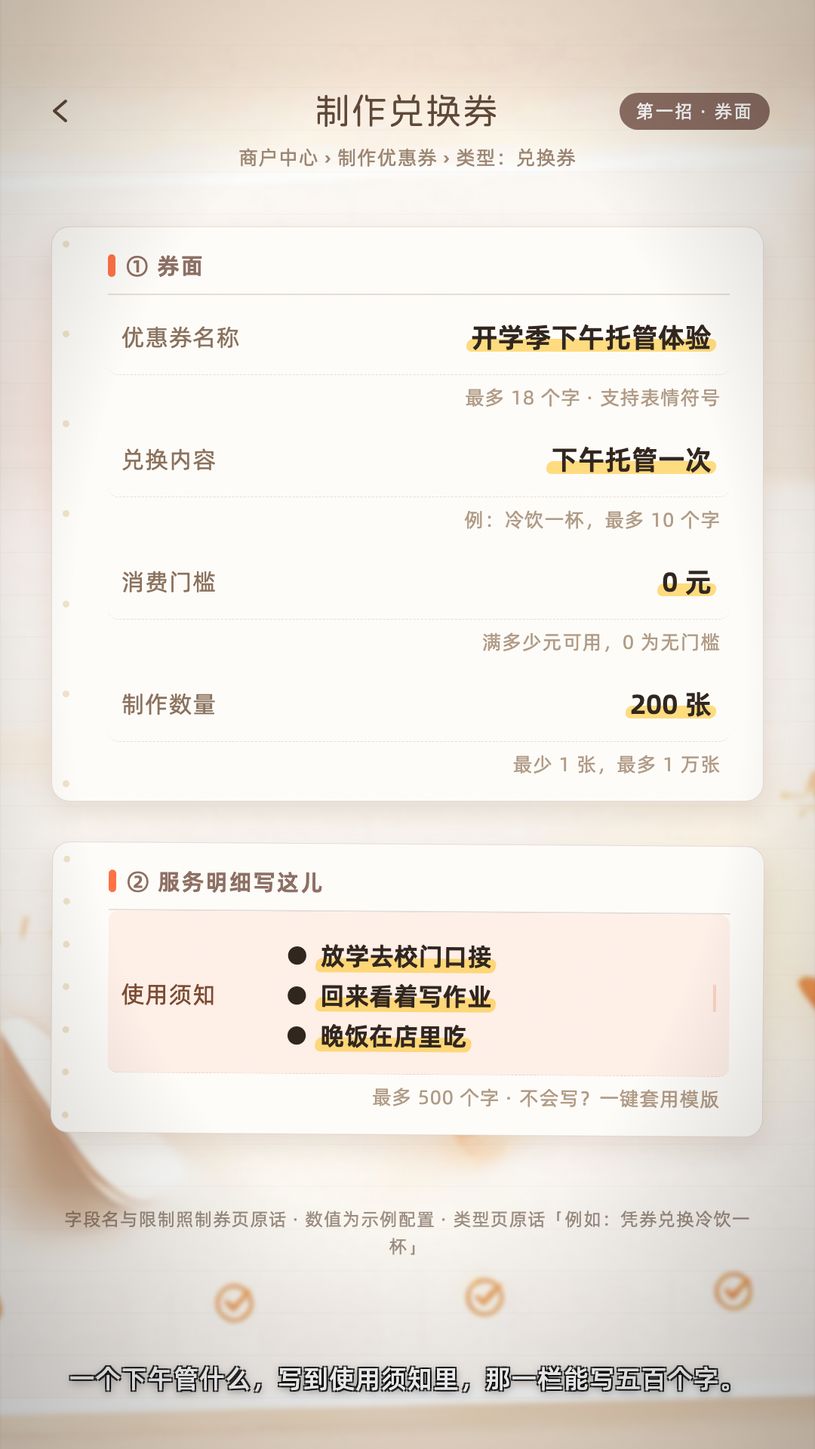
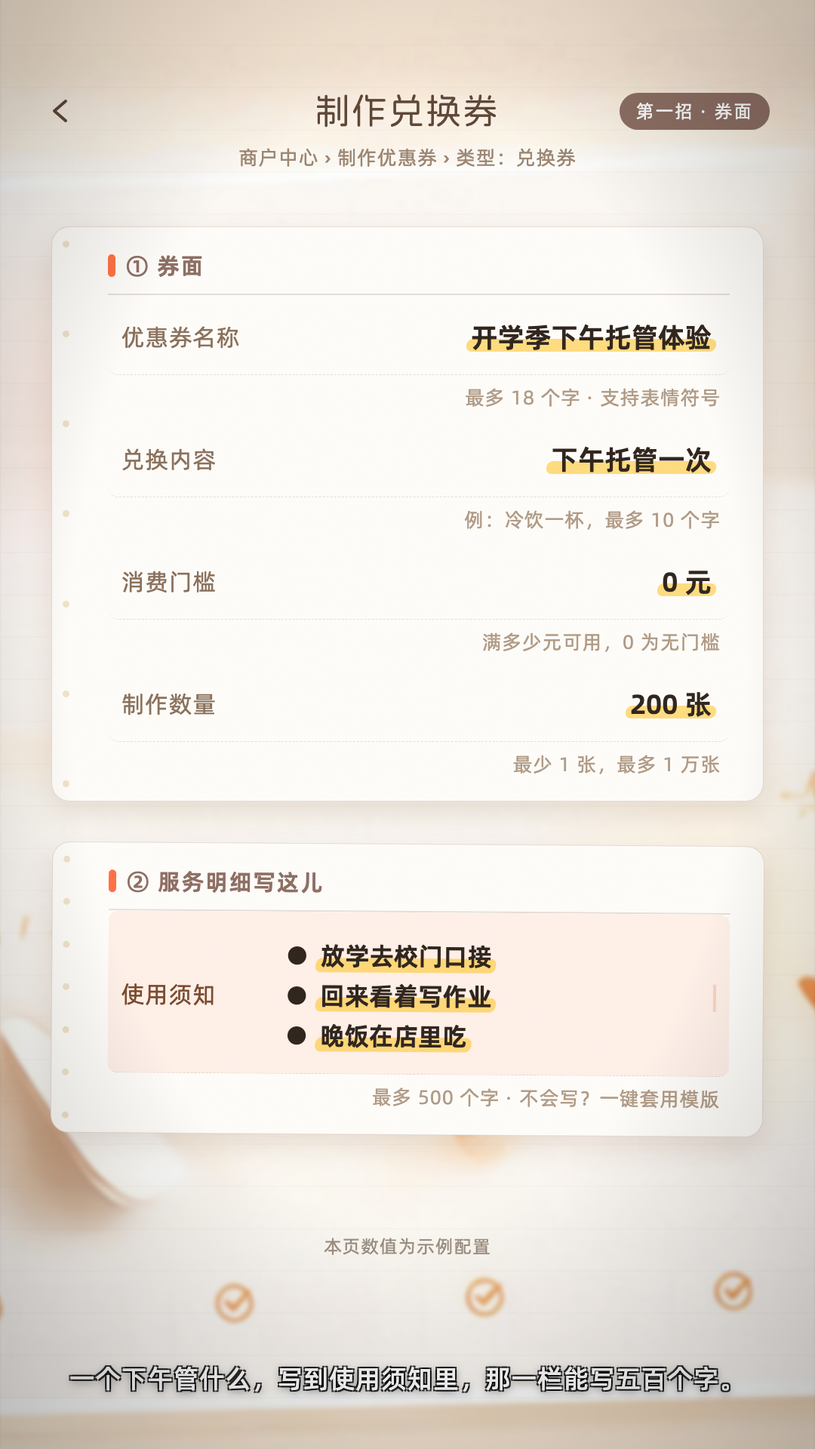
fix(g06): 片 1 十二屏文案整改——删行话/工程脚注/负面句式，重渲并清掉旧帧
用户先要求只检查不修改，报出 6 类屏上问题后拍板逐屏改、旧帧只留最新。
先纠正一条时间事实：g06.ts 最后改于 22:37、帧最晚 19:56，帧比数据旧。

1. 行话上屏：S3 三行 act 与 S12 三条 role 的「开门 / 锁单 / 带人」→
   「先来试 / 只给名单 / 带人来」「来体验 / 给谈过的 / 带新生」。SKILL 第 3
   步举的禁词原例就是"锁单""开门"——上一轮把口播改干净了，行话从嘴上挪到了画面。
2. 内部策划词：S3 副标题「一个痛点，两张券，一个开关」、S2 角标「痛点 · 地推之后」
   改成场景说法。
3. 元话语：S6 预告条「下一屏：…」去掉结构提示。
4. 工程脚注与溯源记号：S4/S9/S11 页脚压成「本页数值为示例配置」（示例声明是铁律 1
   要求，保留；照原话那半截是自证用的，删）；6 处「原话：」「面板原话：」「弹窗原话」
   前缀全去掉，产品原句本身留在画面。
5. 负面句式与内部对比：S7/S8/S10/S11 的「都不出现 / 没有那一组 / 关掉会清空 /
   次卡只有转赠没有奖励」改正向或不写；观众 0 接触，不该看到界面少了什么。
6. 歧义：S8「靠号码校验」删——facts 明写无短信验证环节。

顺手补真值：可用时段的产品原话是 create.vue:184「默认全天可用，可自定义周天及可用
时段」，用词是"周天"；旧稿写"周几与时段"是真值表本轮判定页面不存在的造名。

取证：redlines / tsc / ui-truth(①20 字段 + ⑤102 名) 全过；口播 48 句 945 字、峰值
5.89 字/秒、阿拉伯数字残留 0；与 07 逐字对账 48 句 0 处不一致。按 12 个帧号重渲全部
静帧并目检 S3/S5/S9 三张真图（帧号与复现命令写进 07 §一，临时脚本用完即删）。

删旧帧前已核实都在 git 里（942c6e0 可恢复）：10 屏-era 10 张、过程 probe 11 张、
_返工前-作废帧 6 张；保留 frames/片1/ 12 张。

⚠ 如实上报：S8 因负面句式改成正向短句、字数变少，画面占用率从 71% 掉到 69%，低于
≥70% 线（新帧实测 11/12 达标）。按 SKILL §四 没有加装饰凑数，骨架 2 栏 × ≤4 条也加不
动——此条挂给用户判。另：本轮自己又踩了一次极限词（"最新的"），被红线闸门当场拦下
后改掉，与刚记录的同类教训同型。

diff --git a/video/src/data/g06.ts b/video/src/data/g06.ts
@@ -60,7 +60,7 @@ export const g06: VideoData = {
         { text: '你想打电话再约，翻遍本子，一个号码都没留。', startFrame: 133, endFrame: 258 },
       ],
       payload: {
-        tag: '痛点 · 地推之后',
+        tag: '校门口发完传单之后',
         title1: '家长说',
         title2: '来试一次',
         accent: '然后就没下文了',
@@ -95,11 +95,11 @@ export const g06: VideoData = {
       payload: {
         tag: '这套攻略 · 三招',
         title: '三招设完，家长才留得住',
-        sub: '一个痛点，两张券，一个开关',
+        sub: '一次体验，三处都设在券上',
         rows: [
-          { act: '兑换券 · 开门', desc: '「来试一次」写成一张券', res: '券在家长卡包里，写着能用到几号', mark: '第一招' },
-          { act: '满减券 · 锁单', desc: '只给谈过的这几家', res: '名单外的家长，在这张券上领不到', mark: '第二招' },
-          { act: '转赠奖励 · 带人', desc: '家长把券转给同学家长', res: '对方核销完，家长自动得一张奖励券', mark: '第三招' },
+          { act: '兑换券 · 先来试', desc: '「来试一次」写成一张券', res: '券在家长卡包里，写着能用到几号', mark: '第一招' },
+          { act: '满减券 · 只给名单', desc: '只发给谈过的这几家', res: '名单外的家长，在这张券上领不到', mark: '第二招' },
+          { act: '转赠 · 带人来', desc: '家长把券转给同学家长', res: '对方核销完，家长自动得一张奖励券', mark: '第三招' },
         ],
       },
     },
@@ -137,7 +137,7 @@ export const g06: VideoData = {
             ],
           },
         ],
-        foot: '字段名与限制照制券页原话 · 数值为示例配置 · 类型页原话「例如：凭券兑换冷饮一杯」',
+        foot: '本页数值为示例配置',
       },
     },
     // ── S5 制券② 兑换券 · 期限与发放（三组六行五句；原七行超出本屏高度、中段两卡空框，已拆）──
@@ -164,14 +164,14 @@ export const g06: VideoData = {
             rows: [
               { k: '有效期类型', v: '自领取日起N天内有效', hint: '选固定有效期的话，这两行换成起止日期', kind: 'select' },
               { k: '有效期', v: '14 天', hint: '最少 1 天，最多 365 天', kind: 'input' },
-              { k: '可用时段', v: '周一至周五 15:30–18:30', hint: '默认全天可用；定制可选周几与时段，最多 2 段', kind: 'switch', on: true },
+              { k: '可用时段', v: '周一至周五 15:30–18:30', hint: '默认全天可用，可自定义周天及可用时段', kind: 'switch', on: true },
             ],
           },
           {
             head: '④ 发放方式',
             rows: [
               { k: '发放方式', v: '公开领取', hint: '创建后不可修改', kind: 'select' },
-              { k: '每人限领总量', v: '1 张', hint: '先打开「限领总量」：每人累计领取的总张数', kind: 'input' },
+              { k: '每人限领总量', v: '1 张', hint: '这一行要先打开「限领总量」', kind: 'input' },
             ],
           },
           {
@@ -208,7 +208,7 @@ export const g06: VideoData = {
           { title: '用到几号', sub: '自领取日起 14 天内有效', icon: 'clock' },
           { title: '到期提个醒', sub: '到期前三天提醒家长一次', icon: 'bell' },
         ],
-        next: '下一屏：第二招，做一张满减券',
+        next: '第二招 · 满减券只发给谈过的几家',
         punch: '你不用挨个打电话问，券自己带着期限和提醒',
       },
     },
@@ -234,7 +234,7 @@ export const g06: VideoData = {
             head: '① 券面',
             rows: [
               { k: '优惠券名称', v: '学期费用立减 100', hint: '最多 18 个字 · 支持表情符号', kind: 'input' },
-              { k: '消费门槛', v: '1000 元', hint: '满多少元可用 · 原话「例如：消费满100减20」', kind: 'input' },
+              { k: '消费门槛', v: '1000 元', hint: '满多少元可用 · 例：消费满100减20', kind: 'input' },
               { k: '优惠金额', v: '100 元', hint: '满减券才有的这一行', kind: 'input' },
               { k: '制作数量', v: '30 张', hint: '最少 1 张，最多 1 万张', kind: 'input' },
             ],
@@ -246,7 +246,7 @@ export const g06: VideoData = {
             ],
           },
         ],
-        foot: '选了私密发放，「公开领取设置」整组和「允许分享」这行都不出现',
+        foot: '私密发放 · 一对一给指定的那几家',
       },
     },
     // ── S8 满减券 · 只给名单里的号（复用 g06-ledger 两栏清单，4 句）──
@@ -259,7 +259,7 @@ export const g06: VideoData = {
         { text: '在领券顾客信息里打开指定手机号可领取。', startFrame: 8, endFrame: 108 },
         { text: '号码导进去，每行一个，最多五百个，重复的自动跳过。', startFrame: 108, endFrame: 223 },
         { text: '这颗开关一开，填写手机号会自动打开并且锁死，名单外的家长领不到。', startFrame: 223, endFrame: 378 },
-        { text: '私密发放这一张没有公开领取设置那组，发出去的码领完就失效。', startFrame: 378, endFrame: 523 },
+        { text: '发出去的是一对一领券码，家长领完，这个码就失效。', startFrame: 378, endFrame: 523 },
       ],
       payload: {
         tag: '第二招 · 只给这几家',
@@ -272,8 +272,8 @@ export const g06: VideoData = {
             items: [
               '打开「指定手机号可领取」，导入谈过的家长号码',
               '每行一个手机号，最多 500 个，重复的自动跳过',
-              '开启后「填写手机号」自动打开且关不掉，靠号码校验',
-              '原话：仅输入的手机号可领取此券',
+              '开启后「填写手机号」自动打开，且关不掉',
+              '仅输入的手机号可领取此券',
             ],
           },
           {
@@ -281,7 +281,7 @@ export const g06: VideoData = {
             tone: 'caramel',
             items: [
               '公开领取：看到的家长都能领，才有「允许分享」这行',
-              '私密发放：不显示「公开领取设置」整组',
+              '私密发放：只发给输进名单的人',
               '发出去的是一对一领券码，领完此码失效',
               '发放备注只有商家自己看得到',
             ],
@@ -307,11 +307,11 @@ export const g06: VideoData = {
         title: '一对一发给这一家',
         sub: '券详情页点「发放优惠券」→ 私密发放',
         nodes: [
-          { head: '面对面二维码', desc: '私密发放面板里选这一格，进来就是发放设置', note: '面板原话：适合一对一/储值回馈/消费奖励/给指定客户' },
-          { head: '发放数量 · 超时时间', desc: '数量 1~10 张，一对一就填 1 张；超时时间选 1 天', note: '原话：超过有效期后，领取链接失效，需要重新发放。' },
+          { head: '面对面二维码', desc: '私密发放面板里选这一格，进来就是发放设置', note: '适合一对一 / 储值回馈 / 消费奖励 / 给指定客户' },
+          { head: '发放数量 · 超时时间', desc: '数量 1~10 张，一对一就填 1 张；超时时间选 1 天', note: '超过有效期后，领取链接失效，需要重新发放' },
           { head: '发放备注', desc: '写「开学第一周谈的三家」', note: '选填，仅商家可见 · 客户领完，这个码就失效' },
         ],
-        foot: '画面为示例 · 字段名与限制照原话',
+        foot: '本页数值为示例配置',
       },
     },
     // ── S10 制券④ 分享与转赠（复用 g06-make-basic 卡形 3+1 行）──
@@ -336,7 +336,7 @@ export const g06: VideoData = {
             head: '分享与转赠',
             rows: [
               { k: '允许转赠', v: '开', hint: '家长在自己券详情点「转赠给好友」', kind: 'switch', on: true },
-              { k: '开启转赠奖励', v: '开', hint: '原话：转赠后，受赠人领取并核销后再赠选择的优惠券一张。', kind: 'switch', on: true },
+              { k: '开启转赠奖励', v: '开', hint: '转赠后，受赠人领取并核销，再赠一张', kind: 'switch', on: true },
               { k: '转赠奖励券', v: '挑那张奖品券', hint: '仅可选择「私密发放」类型的有效优惠券', kind: 'select' },
             ],
           },
@@ -347,7 +347,7 @@ export const g06: VideoData = {
             ],
           },
         ],
-        foot: '关掉「允许转赠」，转赠奖励会跟着关掉、已选奖品清空',
+        foot: '奖品券要先做好，这里才挑得到',
       },
     },
     // ── S11 链路走完 + 核销页三件（复用 g06-chain 时间线，3 节点 4 句）──
@@ -367,11 +367,11 @@ export const g06: VideoData = {
         title: '家长 A 带来家长 B',
         sub: '开关在刚才那三行里，跑起来是这三步',
         nodes: [
-          { head: 'A 转赠给 B', desc: 'A 在自己券详情点「转赠给好友」', note: '弹窗原话「仅首位领取好友可获得本券」' },
+          { head: 'A 转赠给 B', desc: 'A 在自己券详情点「转赠给好友」', note: '弹窗写着「仅首位领取好友可获得本券」' },
           { head: 'B 领取 · 到店核销', desc: '核销页券卡右下角标着「转赠获得」', note: '这一眼就知道这单是谁带来的' },
           { head: 'A 的奖励到账', desc: 'B 核销成功那一下，A 自动得那张奖品券', note: '这页显示「转赠奖励」状态：奖励成功 / 待补偿 / 失败', reward: true },
         ],
-        foot: '画面为示例 · 转赠奖励是优惠券的功能 · 次卡只有转赠没有奖励',
+        foot: '本页数值为示例配置',
       },
     },
     // ── S12 收尾 · 三招收口 + 后台真词（复用 g06-cta）──
@@ -390,9 +390,9 @@ export const g06: VideoData = {
         title1: '一套攻略',
         title2: '三招设完',
         strips: [
-          { name: '兑换券 · 下午托管一次', role: '开门' },
-          { name: '满减券 · 只给名单里的号', role: '锁单' },
-          { name: '转赠奖励 · 家长带家长', role: '带人' },
+          { name: '兑换券 · 下午托管一次', role: '来体验' },
+          { name: '满减券 · 只给名单里的号', role: '给谈过的' },
+          { name: '转赠奖励 · 家长带家长', role: '带新生' },
         ],
         brand: '券到卡包',
         sub: '有效发放张数 · 核销率 · 导出领券记录',

diff --git a/outputs/g06-教培托管/07-片1-分镜稿.md b/outputs/g06-教培托管/07-片1-分镜稿.md
@@ -33,7 +33,7 @@
 |---|---|---|---|---|---|
 | S1 | 头 | `g06-hook` | 开学季校门口，发了传单答不上三件事 | 11 | 0 |
 | S2 | 头 | `g06-pain` | 家长说「来试一次」，然后没下文、没号码 | 9 | 318 |
-| S3 | 头 | `g06-steps` | 这套攻略三招：开门 / 锁单 / 带人，每招给一句结果 | 15 | 576 |
+| S3 | 头 | `g06-steps` | 这套攻略三招：先来试 / 只给名单 / 带人来，每招给一句结果 | 15 | 576 |
 | S4 | 主体 | `g06-make-basic` | 兑换券①券面：名称、兑换内容、消费门槛、数量、使用须知 | 18.5 | 1014 |
 | S5 | 主体 | `g06-make-rules` | 兑换券②期限、发放与提醒：有效期类型、可用时段、公开领取、限领 1 张、留号、到期提醒 | 24.5 | 1557 |
 | S6 | 主体 | `g06-idea` | 设完之后家长那边看到什么（发放在一句话里带过） | 14 | 2280 |
@@ -44,7 +44,13 @@
 | S11 | 尾 | `g06-chain` | A 转赠 B → B 核销 → A 奖励到账，三节点走完整条链 | 17.5 | 4785 |
 | S12 | 尾 | `g06-cta` | 三招收口 + 后台真词（有效发放张数、核销率、导出领券记录） | 15 | 5298 |
 
-成片 5748 帧 = 191.6 秒。静帧取样帧见 `outputs/g06-教培托管/frames/片1/`（`g06-make-rules` 的取样偏移单独设成 +80 帧，否则拍不到淡入最慢的那条页脚带）。
+成片 5748 帧 = 191.6 秒。
+
+**12 屏静帧的重渲帧号**（2026-08-31 凌晨文案改后重渲，逐帧实测在 `video/src/data/g06.ts` 上算得；复现命令：`cd video && NODE_OPTIONS="" npx remotion still g06 <输出路径> --frame=<帧号> --browser-executable=<chrome-headless-shell 路径>`）：
+
+`S1=233` `S2=481` `S3=904` `S4=1442` **`S5=2171`** `S6=2558` `S7=3131` `S8=3609` `S9=4122` `S10=4675` `S11=5178` `S12=5656`
+
+> 取样规则 = 该屏**末句口播入场帧 + 30 帧**（内容全在），S5 的 `g06-make-rules` 单独取 **+80**——它的页脚带淡入最慢（`bf(4)+56 → +78`），加 30 会拍到一个还没写完的脚注区。帧图只保留 `frames/片1/` 这一套本轮重渲的；10 屏-era 旧帧、过程 probe 帧与 `_返工前-作废帧/` 已删除（git 历史 `942c6e0` 可查）。
 
 ---
 
@@ -60,9 +66,9 @@
 2. 校门口发的传单，家长接了就走，一转身就没了下文。
 3. 谁领了、来没来、有没有号码，一件都答不上。
 
-### S2 · 痛点（不动）
+### S2 · 痛点（只改角标，构图与口播不动）
 
-复用 `g06-pain`，9 秒。口播 2 句 37 字 / 8.3 秒。
+复用 `g06-pain`，9 秒。画面角标 tag 由「痛点 · 地推之后」改为 **`校门口发完传单之后`**——"痛点""地推"是我们的内部行话，家长不需要看懂。口播 2 句 37 字 / 8.3 秒。
 
 1. 家长答应来试一次，回家没人提，这事就搁下了。
 2. 你想打电话再约，翻遍本子，一个号码都没留。
@@ -73,9 +79,9 @@
 
 | # | 招 | 怎么做 | 得到什么 |
 |---|---|---|---|
-| 1 | 兑换券 · 开门 | 「来试一次」写成一张券 | 券在家长卡包里，写着能用到几号 |
-| 2 | 满减券 · 锁单 | 只给谈过的这几家 | 名单外的家长，在这张券上领不到 |
-| 3 | 转赠奖励 · 带人 | 家长把券转给同学家长 | 对方核销完，家长自动得一张奖励券 |
+| 1 | 兑换券 · 先来试 | 「来试一次」写成一张券 | 券在家长卡包里，写着能用到几号 |
+| 2 | 满减券 · 只给名单 | 只发给谈过的这几家 | 名单外的家长，在这张券上领不到 |
+| 3 | 转赠 · 带人来 | 家长把券转给同学家长 | 对方核销完，家长自动得一张奖励券 |
 
 口播（75 字 / 13.8 秒，峰值 5.52 字/秒）：
 
@@ -96,7 +102,7 @@
 | ① 券面 | 制作数量 | 200 张 | 最少 1 张，最多 1 万张 | `create.vue:41-51` |
 | ② 服务明细写这儿 | 使用须知 | 放学去校门口接 · 回来看着写作业 · 晚饭在店里吃 | 最多 500 个字 · 不会写？一键套用模版 | `create.vue:396-404`、`create.vue:415` |
 
-页脚：`字段名与限制照制券页原话 · 数值为示例配置 · 类型页原话「例如：凭券兑换冷饮一杯」`（`choose_type.vue:11`）。
+页脚：`本页数值为示例配置`。**原来是 `字段名与限制照制券页原话 · 数值为示例配置 · 类型页原话「例如：凭券兑换冷饮一杯」`——那是我们自证用的工程脚注，SKILL 第 4 步明令不进成片；只有"数值为示例"这层是铁律 1 要求的，留下**。（被删的 `choose_type.vue:11` 那句是产品原话，留在 `spec/coupon-fields.json` 当类型说明，不上画面。）
 ★ = 兑换内容、消费门槛。**兑换内容只有 10 个字，装不下服务明细——这是兑换券最容易讲错的一条，所以拆成两屏说**：明细挪去「使用须知」。
 联动：本屏无（这些行恒在）。
 
@@ -114,9 +120,9 @@
 |---|---|---|---|---|
 | ③ 期限 | **有效期类型** ★ | 自领取日起N天内有效 | 选固定有效期的话，这两行换成起止日期 | `create.vue:145-151` + `create.vue:152,164-183` |
 | ③ 期限 | 有效期 | 14 天 | 最少 1 天，最多 365 天 | `create.vue:152-163` |
-| ③ 期限 | 可用时段 | 周一至周五 15:30–18:30 | 默认全天可用；定制可选周几与时段，最多 2 段 | `create.vue:184-195`（`:max="2"` 在 193） |
+| ③ 期限 | 可用时段 | 周一至周五 15:30–18:30 | **默认全天可用，可自定义周天及可用时段**（产品 description 原话；旧稿写"周几与时段"是页面不存在的造名，已换真词。段数上限 `:max="2"` 在 193，不上画面） | `create.vue:184-195` |
 | ④ 发放方式 | **发放方式** ★ | 公开领取 | 创建后不可修改 | `create.vue:199-211` |
-| ④ 发放方式 | 每人限领总量 | 1 张 | 先打开「限领总量」：每人累计领取的总张数 | `create.vue:225-243` |
+| ④ 发放方式 | 每人限领总量 | 1 张 | 这一行要先打开「限领总量」 | `create.vue:225-243` |
 | ⑤ 到期提醒 | 到期提醒 | 开 | 提前提醒选 3 天 · 到期前给家长发一条提醒 | `create.vue:451-463` |
 
 底部按钮 `创建优惠券`（`create.vue:522-524`）。**页脚留空**：这一屏三组六行，按钮已经压到 `bottom:150` 的页脚带，再写字必重叠；"公开领取才有那组"的对照由 S7 页脚与 S8 右栏承担。「填写手机号」不在本屏——第八轮按骨架 6 槽拆掉，改由 S8 讲（那屏讲白名单）。
@@ -141,7 +147,7 @@
 | 2 | 用到几号 | 自领取日起 14 天内有效 | 有效期类型 + 有效期 |
 | 3 | 到期提个醒 | 到期前三天提醒家长一次 | 到期提醒 + 提前提醒天数（见 `messageReminders`） |
 
-预告条：`下一屏：第二招，做一张满减券`。收束句：`你不用挨个打电话问，券自己带着期限和提醒`。
+预告条：`第二招 · 满减券只发给谈过的几家`（原写「下一屏：…」——"下一屏"是暴露片子结构的元话语，必删项）。收束句：`你不用挨个打电话问，券自己带着期限和提醒`。
 发放动作压进口播第 1 句，入口与原话照真值：券详情页「发放优惠券」`coupon/detail.vue:160-166`、公开领取面板 `detail.vue:178-186`、渠道格「海报」`detail.vue:188-209`。
 
 口播（66 字 / 12.7 秒）：
@@ -155,12 +161,12 @@
 | 分组 | 字段名 | 本片填 | 提示行 | 真值 |
 |---|---|---|---|---|
 | ① 券面 | 优惠券名称 | 学期费用立减 100 | 最多 18 个字 · 支持表情符号 | `create.vue:31-40` |
-| ① 券面 | **消费门槛** ★ | 1000 元 | 满多少元可用 · 原话「例如：消费满100减20」 | `create.vue:52-62` + `choose_type.vue:7` |
+| ① 券面 | **消费门槛** ★ | 1000 元 | 满多少元可用 · 例：消费满100减20 | `create.vue:52-62` + `choose_type.vue:7` |
 | ① 券面 | 优惠金额 | 100 元 | 满减券才有的这一行 | `create.vue:87-97` |
 | ① 券面 | 制作数量 | 30 张 | 最少 1 张，最多 1 万张 | `create.vue:41-51` |
 | ② 发放方式 | **发放方式** ★ | 私密发放 | 创建后不可修改 · 适合一对一 / 给指定客户 | `create.vue:199-220` |
 
-页脚：`选了私密发放，「公开领取设置」整组和「允许分享」这行都不出现`。
+页脚：`私密发放 · 一对一给指定的那几家`。**原来是「选了私密发放，「公开领取设置」整组和「允许分享」这行都不出现」——负面句式（告诉观众界面少了什么），SKILL §四 第一条否决项的同型，改正向**。「公开领取才有那一组」的对照不靠文字，靠 S5 / S7 两屏行数不同让观众自己看见。
 **联动（不靠动画，靠两屏对照）**：S5 是公开领取，S7 是私密发放——同一张表单在两屏里行数不同，观众自己看得见。真值：`create.vue:247`（组 `v-if 公开领取`）、`create.vue:498`（行 `v-if 公开领取`，且它在「分享与转赠」组里，不是「公开领取设置」组）。
 ★ = 消费门槛、发放方式。
 
@@ -177,20 +183,22 @@
 | 左栏「怎么设」 | 右栏「和公开领取的差别」 |
 |---|---|
 | 打开「指定手机号可领取」，导入谈过的家长号码 | 公开领取：看到的家长都能领，才有「允许分享」这行 |
-| 每行一个手机号，最多 500 个，重复的自动跳过 | 私密发放：不显示「公开领取设置」整组 |
-| 开启后「填写手机号」自动打开且关不掉，靠号码校验 | 发出去的是一对一领券码，领完此码失效 |
-| 原话：仅输入的手机号可领取此券 | 发放备注只有商家自己看得到 |
+| 每行一个手机号，最多 500 个，重复的自动跳过 | 私密发放：只发给输进名单的人 |
+| 开启后「填写手机号」自动打开，且关不掉 | 发出去的是一对一领券码，领完此码失效 |
+| 仅输入的手机号可领取此券 | 发放备注只有商家自己看得到 |
+
+**本轮改掉的两处**：左栏去掉「原话：」记号（那是我们的溯源标记，观众读到会愣）与「靠号码校验」（facts 明写顾客填手机号仅做 11 位格式校验、**无短信验证环节**，这半截容易被读成要短信验证）；右栏第二行原为「不显示「公开领取设置」整组」——负面句式，改正向。
 
 标题 `指定手机号可领取`（行名逐字），副标题 `在「领券顾客信息」这一组里`（`create.vue:467-482`），收束句 `只有输进名单的那些号能领`。
 真值：`create.vue:474-478`（描述原话「导入可领取手机号，最多500个。」）、`m-coupon-allow-mobile-panel.vue:13`（「仅输入的手机号可领取此券。每行一个手机号，最多500个。」）、联动 `create.vue:605-612,471`。
 **这屏成立的前提**：`领券顾客信息` 组的条件是 `发放方式 ≠ 券包`（`create.vue:467`），所以「指定手机号可领取 + 私密发放」可以同用在一张券上——已回源码确认。
 
-口播（95 字 / 17.2 秒）：
+口播（89 字 / 17.2 秒）：
 
 1. 在领券顾客信息里打开指定手机号可领取。（18 字 · 3.3s）
 2. 号码导进去，每行一个，最多五百个，重复的自动跳过。（21 字 · 3.8s）
 3. 这颗开关一开，填写手机号会自动打开并且锁死，名单外的家长领不到。（29 字 · 5.2s）
-4. 私密发放这一张没有公开领取设置那组，发出去的码领完就失效。（27 字 · 4.8s）
+4. 发出去的是一对一领券码，家长领完，这个码就失效。（21 字 · 4.8s）
 
 ### S9 · 私密发放要设的三项数据（`g06-chain` 三节点）
 
@@ -198,11 +206,11 @@
 
 | 节点 | 屏上标题 | 内容 | 真值 |
 |---|---|---|---|
-| 1 | 面对面二维码 | 私密发放面板里选这一格，进来就是发放设置 | 入口 `coupon/detail.vue:212-227`；面板原话「适合一对一/储值回馈/消费奖励/给指定客户」 |
-| 2 | 发放数量 · 超时时间 | 数量 1~10 张，一对一就填 1 张；超时时间选 1 天 | `issue/private.vue:3-32`；原话「超过有效期后，领取链接失效，需要重新发放。」 |
+| 1 | 面对面二维码 | 私密发放面板里选这一格，进来就是发放设置 | 入口 `coupon/detail.vue:212-227`；面板原句「适合一对一/储值回馈/消费奖励/给指定客户」（**画面上已去掉「面板原话：」前缀**） |
+| 2 | 发放数量 · 超时时间 | 数量 1~10 张，一对一就填 1 张；超时时间选 1 天 | `issue/private.vue:3-32`；原句「超过有效期后，领取链接失效，需要重新发放。」（同上，前缀不上画面） |
 | 3 | 发放备注 | 写「开学第一周谈的三家」 | `issue/private.vue:50-60`；选填、仅商家可见 |
 
-页脚 `画面为示例 · 字段名与限制照原话`。
+页脚 `本页数值为示例配置`（原「画面为示例 · 字段名与限制照原话」后半截是工程脚注，不进成片）。
 **注意入口不叫"海报发放"**：两张面板都从券详情页「发放优惠券」弹出（`coupon/detail.vue:160-166`），公开领取那张的渠道名含站外生态词，一律不上屏不念（红线层）。
 
 口播（83 字 / 15.2 秒）：
@@ -217,11 +225,11 @@
 | 分组 | 字段名 | 本片填 | 提示行 | 真值 |
 |---|---|---|---|---|
 | 分享与转赠（真分组名 `create.vue:497`） | 允许转赠 | 开 | 家长在自己券详情点「转赠给好友」 | `create.vue:504-508`、`pages_user/coupon/detail.vue:131` |
-| 分享与转赠 | 开启转赠奖励 | 开 | 原话：转赠后，受赠人领取并核销后再赠选择的优惠券一张。 | `create.vue:509-514` |
+| 分享与转赠 | 开启转赠奖励 | 开 | 转赠后，受赠人领取并核销，再赠一张 | `create.vue:509-514`（原句「转赠后，受赠人领取并核销后再赠选择的优惠券一张。」——画面上不带「原话：」记号） |
 | 分享与转赠 | 转赠奖励券 | 挑那张奖品券 | 仅可选择「私密发放」类型的有效优惠券 | `create.vue:515-518` |
 | 先做的那张奖品券 | 发放方式 | 私密发放 | 奖品券必须是一张有效的私密发放券 · 所以这招要两张券 | 同上 |
 
-页脚：`关掉「允许转赠」，转赠奖励会跟着关掉、已选奖品清空`（`onTransferChange`，`create.vue`）。
+页脚：`奖品券要先做好，这里才挑得到`。**原来是「关掉「允许转赠」，转赠奖励会跟着关掉、已选奖品清空」（`onTransferChange`）——写的是观众不会去操作的关闭连带后果，属内部约束上屏，SKILL §四 否决过这个形态，已换成正向提示**。
 **这屏最该讲透的一条**：奖励发生在**第二个人核销之后**，不是转赠那一下——口播最后一句钉死它。
 
 口播（96 字 / 17.7 秒）：
@@ -236,11 +244,11 @@
 
 | 节点 | 屏上标题 | 内容 | 真值 |
 |---|---|---|---|
-| 1 | A 转赠给 B | A 在自己券详情点「转赠给好友」；弹窗原话「仅首位领取好友可获得本券」（「转赠中，可取消转赠」按真值表 `offScript` 不上屏、不念） | `pages_coupon/coupon/detail.vue:131,157` |
+| 1 | A 转赠给 B | A 在自己券详情点「转赠给好友」；画面写「弹窗写着『仅首位领取好友可获得本券』」（「转赠中，可取消转赠」按真值表 `offScript` 不上屏、不念） | `pages_coupon/coupon/detail.vue:131,157` |
 | 2 | B 领取 · 到店核销 | 核销页券卡右下角标着「转赠获得」 | `verify/verify.vue:123-125` |
 | 3 | A 的奖励到账 ★奖 | B 核销成功那一下，A 自动得那张奖品券；这页显示「转赠奖励」状态：奖励成功 / 待补偿 / 失败 | `verify/verify.vue:38-73,363-368` |
 
-页脚 `画面为示例 · 转赠奖励是优惠券的功能 · 次卡只有转赠没有奖励`（已核：`转赠奖励` 全库只出现在 `pages_coupon/**`，`pages_card/card/create.vue:183` 只有「允许转赠」）。
+页脚 `本页数值为示例配置`。**原来页脚还写着「转赠奖励是优惠券的功能 · 次卡只有转赠没有奖励」——那是产品线之间的内部对比，观众 0 接触、不知道次卡是什么，属内部约束上屏，已从画面删掉**。这条核查结论本身仍然成立、留在文档里备查：`转赠奖励` 全库只出现在 `pages_coupon/**`，`pages_card/card/create.vue:183` 只有「允许转赠」（**候选片 5 讲次卡时不得复用第三招**）。
 **到账通知可以直接说**：2026-08-30 用户先给了六类通知的名字，同日再确认送达是支持的，所以这屏明说「A 也会收到到账通知」（通知名 = 「转赠奖励到账通知」）。唯一仍守的边界是措辞不带平台名（站外生态词硬禁），只说"通知""提醒"。
 
 口播（87 字 / 16.3 秒）：
@@ -256,9 +264,11 @@
 
 | 条 | 屏上 | 后台真词 |
 |---|---|---|
-| 1 | 兑换券 · 下午托管一次 → 开门 | 有效发放张数 · 核销率 |
-| 2 | 满减券 · 只给名单里的号 → 锁单 | 导出领券记录 |
-| 3 | 转赠奖励 · 家长带家长 → 带人 | 这条不上后台词，收在奖励券本身 |
+| 1 | 兑换券 · 下午托管一次 → 来体验 | 有效发放张数 · 核销率 |
+| 2 | 满减券 · 只给名单里的号 → 给谈过的 | 导出领券记录 |
+| 3 | 转赠奖励 · 家长带家长 → 带新生 | 这条不上后台词，收在奖励券本身 |
+
+**三个标签原来写的是「开门 / 锁单 / 带人」**——SKILL 第 3 步「给判断不许只给总结词」举的反例原词就是"锁单""开门"，那类提炼后的行话只服务已懂的人，对 0 接触家长等于让他脑补。同一条毛病在 S3 的三行 `act` 上一起改掉了（→ 先来试 / 只给名单 / 带人来），S3 副标题「一个痛点，两张券，一个开关」也换成 **`一次体验，三处都设在券上`**（"痛点"是内部策划词）。
 
 副标题：`有效发放张数 · 核销率 · 导出领券记录`（`stat/store_overview.vue:30-33`、`receive/list.vue:128`）。
 **原来这里写的是"已领取／已核销"——统计页上没有这两个标签**（那是次卡、券包页面的字），已改成页面上的真词。

diff --git a/outputs/archive/changelog.md b/outputs/archive/changelog.md
@@ -5,6 +5,31 @@
 > **维护规则**：每次改动权威文档时，在此文件顶部追加一条记录（最新在前）。
 
 ---
+## 2026-08-30（深夜·第十三轮）· 片 1 十二屏文案整改：删行话 / 工程脚注 / 负面句式，重渲后删旧帧
+
+**触发**：用户问「那 12 屏真图是直接放进成片的最终画面？文案应该还没按我的想法优化掉，先仔细检查、先不要修改」。我只读检查（读完 `g06.ts` 全部 payload，再抽看真图确认字符串确实渲染在画面上），报出 6 类仍在破的屏上文案；用户随后拍板「现在逐屏修改，然后删掉旧的，只保留最新的」。
+
+**先纠正一条时间事实**：当时 `g06.ts` 最后改于 22:37，而 12 张帧最晚 19:56——**帧比数据旧**。S4/S5 改的正是字幕（字幕画在画面下沿），所以那两张帧印的字与现数据不一致。
+
+**六类屏上文案改动**：
+1. **行话上屏**：S3 三行 `act`「兑换券 · 开门 / 满减券 · 锁单 / 转赠奖励 · 带人」与 S12 三条 `role`「开门 / 锁单 / 带人」→「先来试 / 只给名单 / 带人来」「来体验 / 给谈过的 / 带新生」。SKILL 第 3 步举的禁词原例就是"锁单""开门"——**上一轮把口播改干净了，行话却从嘴上挪到了画面上**。
+2. **内部策划词**：S3 副标题「一个痛点，两张券，一个开关」→「一次体验，三处都设在券上」；S2 角标「痛点 · 地推之后」→「校门口发完传单之后」。
+3. **元话语**：S6 预告条「下一屏：第二招，做一张满减券」→「第二招 · 满减券只发给谈过的几家」。
+4. **工程脚注与溯源记号进成片**：S4/S9/S11 页脚「字段名与限制照原话」等压成「本页数值为示例配置」（"数值为示例"是铁律 1 要求的，留；后半截是自证用的，删）；S7/S8/S9/S10/S11 里 6 处「原话：」「面板原话：」「弹窗原话」前缀全部去掉，**产品原句本身保留上屏**。
+5. **负面句式与产品线内部对比**：S7 页脚「…整组和…都不出现」、S8 口播与右栏「没有/不显示那一组」、S10 页脚「关掉…会跟着清空」、S11 页脚「次卡只有转赠没有奖励」→ 全部改正向或不写。次卡那条核查结论留在文档备查（候选片 5 不得复用第三招），但观众 0 接触，不该在画面上看到产品线对比。
+6. **歧义**：S8「靠号码校验」删——facts 明写仅做 11 位格式校验、无短信验证环节，这半截会被读成要短信验证。
+
+**顺手补的一个真值**：S5「可用时段」提示原写「定制可选周几与时段」，源码 `create.vue:184` 的 description 原话是**「默认全天可用，可自定义周天及可用时段」——用词是"周天"不是"周几"**，而"周几 + 具体时段"正是本轮真值表判定页面不存在的造名。已把 `spec/coupon-fields.json` 该条 reason 改成引用真原话。
+
+**取证**：改后 `check-redlines` exit 0（硬禁 0 命中）、`tsc --noEmit` 0 错误、`check-ui-truth` ①20 字段 + ⑤真值表自证 102 名全过；口播复算 48 句 / 945 字 / 峰值 5.89 字/秒 / 超线 0 句 / **阿拉伯数字残留 0**；`07-片1-分镜稿.md` 同步后逐字对账 **48 句逐位 0 处不一致**。按 12 个重渲帧号（S1=233、S2=481、S3=904、S4=1442、**S5=2171**、S6=2558、S7=3131、S8=3609、S9=4122、S10=4675、S11=5178、S12=5656；S5 因页脚带淡入最慢单独取 +80）重渲全部静帧，**逐张目检 S3 / S5 / S9 三张真图**确认行话已换、画面未溢出、「原话」前缀与工程脚注确已消失。帧号与复现命令写进 `07` §一；临时渲染脚本用完即删，不在仓库根留垃圾。
+
+**删旧帧**（用户明令只留最新）：删 10 屏-era 根目录 10 张 full、`片1/` 里 11 张过程 probe、`片1/_返工前-作废帧/` 整目录 6 张；保留 `frames/片1/` 12 张最新 full。**删前先核实这批都在 git 里**（`git ls-files` 53 个文件、未被 ignore），历史 `942c6e0` 可恢复。
+
+**必须如实上报的后果**：S8 因把右栏负面句式换成正向短句、字数变少，**画面占用率从 71% 掉到 69%，低于 ≥70% 线**（新帧实测 11/12 达标）。按 SKILL §四"不许对着指标凑画面"没有加装饰补，也没缩字号；骨架硬约束 2 栏 × ≤4 条本就读不动。**此条挂给用户判**：认可 69%，或走第十一轮记过的浅色占用率重定标（需先存一浅一深好/坏样本进 `outputs/archive/calibration/`）。
+
+**一并入库的两处修正**（并行会话第十二轮抓出、由我引入）：`createGroupsRule` 漏改的"15 块"→16 块；SKILL §三 把 `SPRING_CONFIG` 误列进零引用（实际 `VTemplate.tsx:19,182` 在用——统计时把 VTemplate 自身排除掉了，方法错）。
+
+---
 ## 2026-08-30（深夜·第十二轮）· 新会话八维审计：6 处语义过时全修，负向测试验证真值表自证层
 
 **触发**：新会话按场景 A 跑八维审计（只读），出问题清单 6 条，用户拍板「全部都修复一下」。

diff --git a/outputs/g06-教培托管/00-交付说明.md b/outputs/g06-教培托管/00-交付说明.md
@@ -48,13 +48,13 @@
 | 红线（画面+口播硬禁） | ✅ 通过 | 画面层 0 命中；文案层 0 命中——**本文件改写后复扫曾命中绝对化「最」字类用词 2 处，已改词后归零**（注：把禁词原样写进说明文字本身也会触闸，故此处不复述）；③ 层 5 处为产品署名「券到卡包」，规则允许 |
 | 文档引用 | ✅ 通过 | 失效引用 0 处 |
 | 事实（资产/素材对账） | ✅ 通过 | 关键资产在位，素材登记与磁盘一致 |
-| 相似度 | ✅ 通过 | 10 屏结构指纹（type+ui）与已产出视频零同构；10 个 ui 均有实组件 |
+| 相似度 | ✅ 通过 | 12 屏结构指纹（type+ui）与已产出视频零同构；9 个绑定 ui 均有实组件（`g06-compare` 注册在表但无屏绑定）。**边界：这道机检只防"照抄上一片的 ui 名"，换前缀重做同款骨架它拦不住（SKILL §三）** |
 | tsc --noEmit | ✅ 通过 | 零错误 |
-| 语速（人工尺，无机检） | ✅ 通过 | 38 句去标点 702 音节，逐句峰值 **5.45 字/秒**（线 ≤6），脚本实测可复现 |
-| 画面占用率（10 张静帧） | ✅ 通过 | 71%–81%（S1 81 / S2 78 / S3 79 / S4 75 / S5 77 / S6 73 / S7 73 / S8 75 / S9 71 / S10 77），线 ≥70% |
+| 语速（人工尺，无机检） | ✅ 通过 | 48 句去标点 945 字，逐句峰值 **5.89 字/秒**（线 ≤6），超线 0 句；口播已无阿拉伯数字与字母占位（"N 天"改说"几天内"，画面那行仍保留产品原话 `自领取日起N天内有效`） |
+| 画面占用率（12 张静帧） | ⚠ **11/12 达标** | 69%–82%，线 ≥70%。**S8-ledger = 69% 未达标**：本轮把右栏负面句式「不显示「公开领取设置」整组」换成正向的「只发给输进名单的人」，字数变少，占用率从原 10 屏版的 71% 掉到 69%。**不加装饰凑数**（SKILL §四 禁止对着指标凑画面；骨架硬约束 2 栏 × ≤4 条也加不动）。此条挂给用户：认可 69%，或走浅色占用率重定标 |
 | 效果尺子（成片） | ⏳ 待重渲完成 | 上一轮数字（静止 42%·帧差 0.54·占用 75%）测的是**已作废的 9 屏成片**，不作数；新片渲完重跑 gate-all 后回填 |
 
-> 时效：除「效果尺子（成片）」外，上表各项均在 12:44–12:48 复跑，时间晚于本轮最后一次改动（含本文件与三份发布稿的文字修订）；成片尺子待新片渲完后单独跑并回填。
+> 时效：上表除「效果尺子（成片）」外，均在**本轮 12 屏文案改完并重渲静帧之后**复跑（第十三轮：删行话 / 删工程脚注 / 删负面句式 → 重渲 12 张 → 跑闸门 → 逐张目检真图）。成片尺子待新片渲完后单独跑并回填。
 
 ## 四、事实自查（这轮逐条回查产品代码，不是照抄首版）
 
